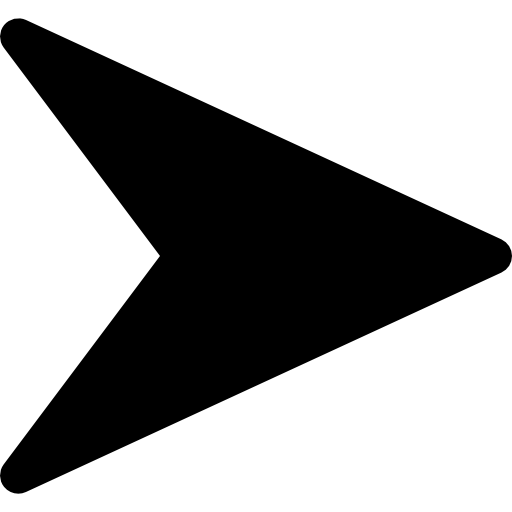
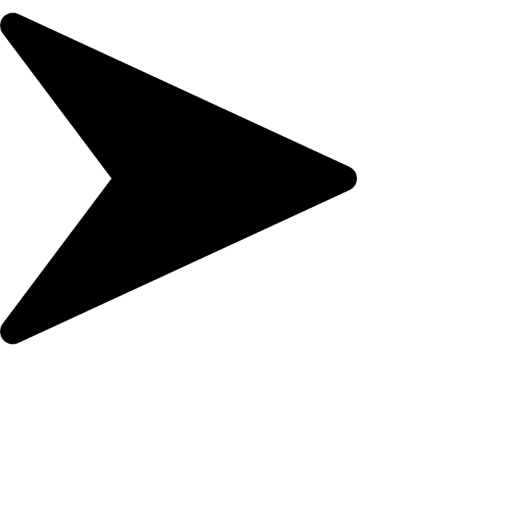
Decreased the size of arrows

diff --git a/app/src/main/java/fr/oiseaux/controller/ModelController.java b/app/src/main/java/fr/oiseaux/controller/ModelController.java
@@ -38,7 +38,7 @@ public class ModelController {
   }
 
   private void startModelLoop() {
-    timer = new Timer(100, (ActionEvent e) -> {
+    timer = new Timer(1000/60, (ActionEvent e) -> {
       model.updateMovement();
       viewSim.repaint();
     });
